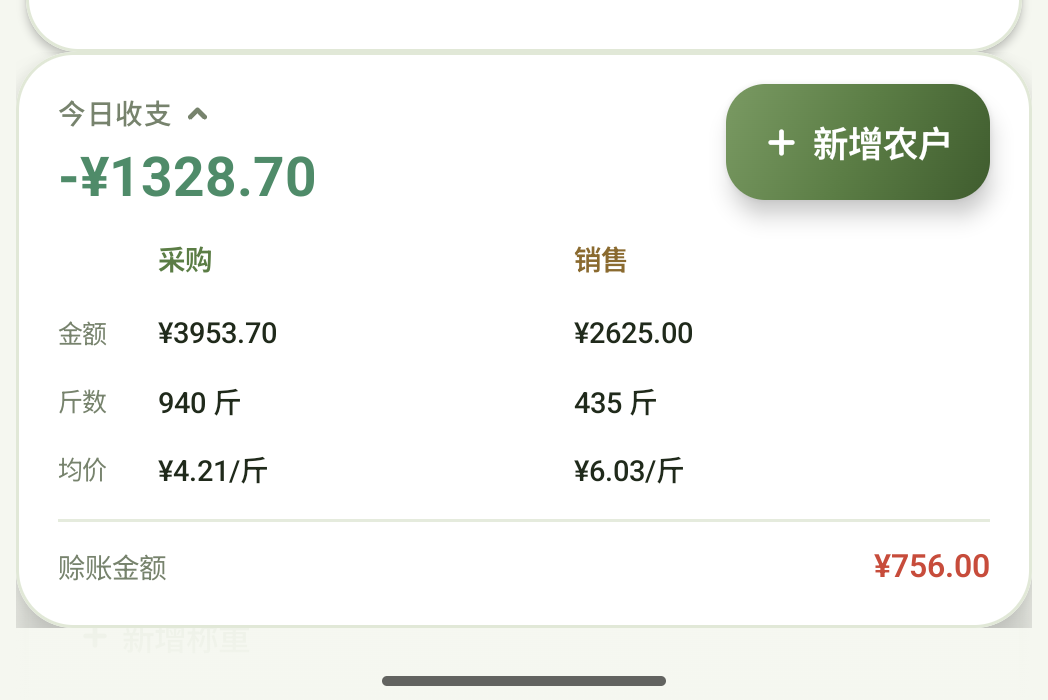
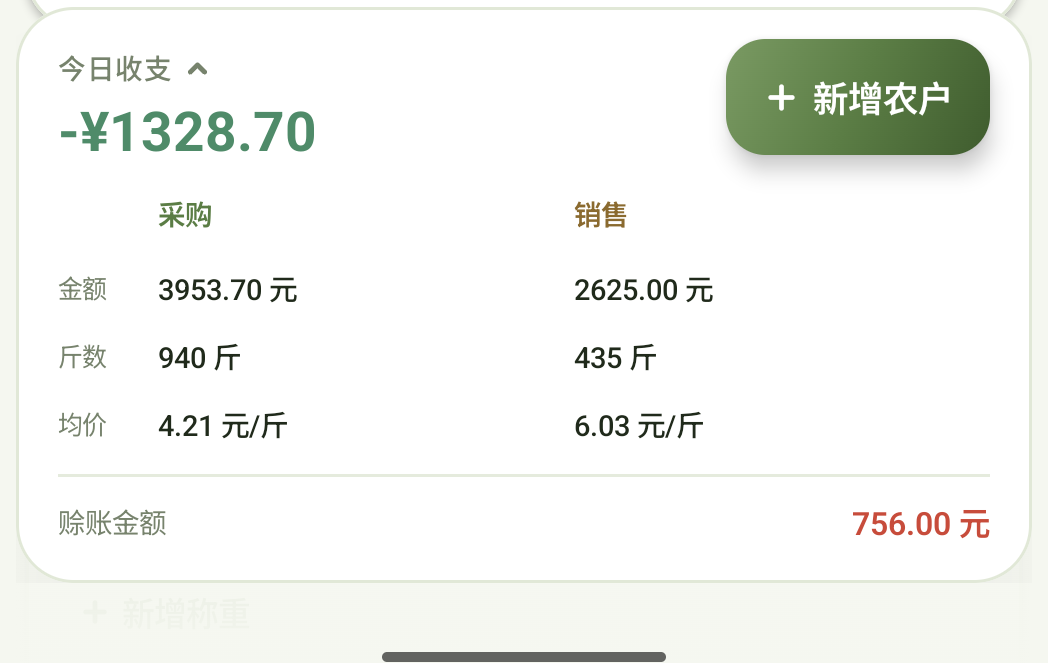
fix: refine daily card interactions, units and shadows

diff --git a/app/src/main/java/com/peanut/ledger/ui/MainScreen.kt b/app/src/main/java/com/peanut/ledger/ui/MainScreen.kt
@@ -962,7 +962,10 @@ private fun BottomDock(state: LedgerState, stats: DayStats, modifier: Modifier =
     val swipeThreshold = with(density) { 36.dp.toPx() }
     val toggleModifier = Modifier
         .pointerInput(Unit) {
-            detectTapGestures(onDoubleTap = { expanded = !expanded })
+            detectTapGestures(
+                onTap = { expanded = !expanded },
+                onDoubleTap = { expanded = !expanded }
+            )
         }
         .pointerInput(Unit) {
             var totalDrag = 0f
@@ -984,17 +987,27 @@ private fun BottomDock(state: LedgerState, stats: DayStats, modifier: Modifier =
             )
         }
 
-    Surface(
+    Box(
         modifier = modifier
             .padding(horizontal = 12.dp)
             .navigationBarsPadding()
-            .padding(bottom = 8.dp)
-            .animateContentSize(),
-        shape = RoundedCornerShape(22.dp),
-        color = CardWhite,
-        border = BorderStroke(1.dp, CardBorder),
-        shadowElevation = 10.dp
+            .padding(bottom = 16.dp)
+            .animateContentSize()
+            .shadow(
+                elevation = 14.dp,
+                shape = RoundedCornerShape(22.dp),
+                clip = false,
+                ambientColor = Color.Black.copy(alpha = 0.10f),
+                spotColor = Color.Black.copy(alpha = 0.16f)
+            )
     ) {
+        Surface(
+            modifier = Modifier.fillMaxWidth(),
+            shape = RoundedCornerShape(22.dp),
+            color = CardWhite,
+            border = BorderStroke(1.dp, CardBorder),
+            shadowElevation = 0.dp
+        ) {
         Column(
             modifier = Modifier
                 .fillMaxWidth()
@@ -1104,8 +1117,8 @@ private fun BottomDock(state: LedgerState, stats: DayStats, modifier: Modifier =
                     Spacer(Modifier.height(4.dp))
                     BottomMetricRow(
                         label = "金额",
-                        left = if (state.privacyMode) "****" else fmtMoney(stats.buy),
-                        right = if (state.privacyMode) "****" else fmtMoney(stats.sell)
+                        left = if (state.privacyMode) "**** 元" else fmtYuan(stats.buy),
+                        right = if (state.privacyMode) "**** 元" else fmtYuan(stats.sell)
                     )
                     BottomMetricRow(
                         label = "斤数",
@@ -1115,14 +1128,14 @@ private fun BottomDock(state: LedgerState, stats: DayStats, modifier: Modifier =
                     BottomMetricRow(
                         label = "均价",
                         left = when {
-                            state.privacyMode -> "****"
+                            state.privacyMode -> "**** 元/斤"
                             buyAvg == null -> "—"
-                            else -> "¥${fmtNum(buyAvg)}/斤"
+                            else -> fmtAvgYuan(buyAvg)
                         },
                         right = when {
-                            state.privacyMode -> "****"
+                            state.privacyMode -> "**** 元/斤"
                             sellAvg == null -> "—"
-                            else -> "¥${fmtNum(sellAvg)}/斤"
+                            else -> fmtAvgYuan(sellAvg)
                         }
                     )
                     Spacer(Modifier.height(6.dp))
@@ -1132,7 +1145,7 @@ private fun BottomDock(state: LedgerState, stats: DayStats, modifier: Modifier =
                         Text("赊账金额", color = Muted, fontSize = 10.5.sp)
                         Spacer(Modifier.weight(1f))
                         Text(
-                            text = if (state.privacyMode) "****" else fmtMoney(creditAmount),
+                            text = if (state.privacyMode) "**** 元" else fmtYuan(creditAmount),
                             color = if (creditAmount > 0.005 && !state.privacyMode) Red else TextSoft,
                             fontSize = 12.sp,
                             fontWeight = FontWeight.SemiBold
@@ -1141,8 +1154,15 @@ private fun BottomDock(state: LedgerState, stats: DayStats, modifier: Modifier =
                 }
             }
         }
+        }
     }
 }
+
+private fun fmtYuan(value: Double): String =
+    fmtMoney(value).removePrefix("¥") + " 元"
+
+private fun fmtAvgYuan(value: Double): String =
+    String.format(Locale.US, "%.2f 元/斤", value)
 
 @Composable
 private fun BottomMetricRow(label: String, left: String, right: String) {

diff --git a/app/src/main/java/com/peanut/ledger/ui/LedgerDatePicker.kt b/app/src/main/java/com/peanut/ledger/ui/LedgerDatePicker.kt
@@ -34,7 +34,6 @@ import androidx.compose.ui.unit.sp
 import androidx.compose.ui.window.Dialog
 import androidx.compose.ui.window.DialogProperties
 import com.peanut.ledger.ui.theme.AvatarBuy
-import com.peanut.ledger.ui.theme.CardBorder
 import com.peanut.ledger.ui.theme.CardWhite
 import com.peanut.ledger.ui.theme.Line
 import com.peanut.ledger.ui.theme.Muted
@@ -65,10 +64,15 @@ fun LedgerDatePickerDialog(
             modifier = Modifier
                 .fillMaxWidth()
                 .padding(horizontal = 26.dp)
-                .shadow(24.dp, RoundedCornerShape(24.dp)),
+                .shadow(
+                    elevation = 28.dp,
+                    shape = RoundedCornerShape(24.dp),
+                    clip = false,
+                    ambientColor = Color.Black.copy(alpha = 0.14f),
+                    spotColor = Color.Black.copy(alpha = 0.22f)
+                ),
             shape = RoundedCornerShape(24.dp),
-            color = CardWhite,
-            border = androidx.compose.foundation.BorderStroke(1.dp, CardBorder)
+            color = CardWhite
         ) {
             Column {
                 Box(

diff --git a/app/src/main/java/com/peanut/ledger/ui/StatsScreen.kt b/app/src/main/java/com/peanut/ledger/ui/StatsScreen.kt
@@ -508,7 +508,10 @@ private fun CreditCard(credit: CreditStats) {
                             text = "${index + 1}",
                             color = Primary,
                             fontSize = 10.sp,
-                            fontWeight = FontWeight.Bold
+                            lineHeight = 10.sp,
+                            fontWeight = FontWeight.Bold,
+                            textAlign = TextAlign.Center,
+                            modifier = Modifier.fillMaxWidth()
                         )
                     }
                     Spacer(Modifier.width(9.dp))

diff --git a/app/src/main/java/com/peanut/ledger/ui/SettingsScreen.kt b/app/src/main/java/com/peanut/ledger/ui/SettingsScreen.kt
@@ -100,7 +100,7 @@ fun SettingsScreen(state: LedgerState) {
                     )
                     Spacer(Modifier.height(7.dp))
                     Text(
-                        text = "数据仅保存在本机 · 花生账本 v0.1.4",
+                        text = "数据仅保存在本机 · 花生账本 v0.1.5",
                         color = Placeholder,
                         fontSize = 11.sp,
                         textAlign = TextAlign.Center

diff --git a/README.md b/README.md
@@ -10,7 +10,7 @@
 - **采购 / 销售类型与称重**：打开新增称重时自动聚焦重量并弹出数字键盘；金额默认由重量 × 单价自动计算，也可手动修改，修改后显示「已修改」及少付/多付差额；手动价格会在条目尾部以原价划线展示，合计同样划线；手动改回原价会自动恢复「自动计算」；再次调整重量或单价也会重新计算；新增称重会自动带入上次单价；重量为 0 时点击保存会直接返回，不产生记录也不弹出错误提示。如果类型下没有任何称重，会自动移除该类型。
 - **实付 / 实收调整**：支持按整元向上取整（按钮直接显示「取整到具体金额」）和恢复原价，实时显示多付/少付、多收/少收。
 - **销售结算状态**：赊账 / 已结清切换；可在设置中配置新增销售默认赊账或默认结清。
-- **展开式日结卡**：底部「今日收支」默认只显示收支和采购/销售金额；双击卡片或上拉后展开完整数据，以采购/销售两列合并展示金额、斤数、均价，并额外显示当天赊账金额。卡片展开/收起带尺寸动画，隐私模式下同步脱敏。
+- **展开式日结卡**：底部「今日收支」默认只显示收支和采购/销售金额；单击「今日收支」、双击卡片或上拉后展开完整数据，以采购/销售两列合并展示金额、斤数、均价，并额外显示当天赊账金额；金额统一显示为「x.xx 元」、均价显示为「x.xx 元/斤」，单位放在最后。卡片展开/收起带尺寸动画，隐私模式下同步脱敏。
 - **统计分析**：右上角「更多 → 统计」进入统计页。顶部可选择近 7 天、近 30 天、近 1 年或自定义起止日期，默认近 7 天，选择后概览、赊账、排行和所有图表同步生效。包含概览、赊账统计（当前周期未结清总额、欠款排行及每位收购方最长账龄）、收支趋势（采购支出 / 销售收入 / 净收支三条线）、采购销售斤数、采购销售均价，以及商品收购方往来排行。斤数与均价图各自带独立类型筛选（默认全部类型）；所有折线图支持长按显示详情，并在按住后左右移动自动切换日期，颜色采用高对比蓝 / 橙 / 紫。统计卡片内不重复展示周期，统一以顶部周期为准；隐私模式开启时会先提示关闭隐私模式。
 - **备注与重命名**：每日备注、单条记录备注使用大文本输入框；支持记录重命名和删除确认。
 - **隐私模式**：一键隐藏全部金额，销售界面的收购方显示为「收1、收2…」并在头像显示对应编号，同时隐藏多付/少付标签和采购条目的位置信息；点击新增称重或添加类型时会自动临时显示该条目并继续操作，无需先双击；其余敏感操作仍可双击或长按卡片临时显示。
@@ -30,7 +30,7 @@
 - **品牌化头部**：日期作为视觉主体，采购/销售分段控件、隐私与更多操作集中在同一条渐变区域内。
 - **统一图标系统**：`LedgerIcons.kt` 中的自绘线性图标替代 emoji，避免系统间风格不一致。
 - **卡片化账目**：20dp 大圆角、细描边、轻阴影；类型、称重和实付金额建立清晰层级。
-- **可展开日结栏**：底部悬浮显示今日收支，双击或上拉展开完整周期数据，并带尺寸过渡动画。
+- **可展开日结栏**：底部悬浮显示今日收支，单击、双击或上拉展开完整周期数据，并带尺寸过渡动画。
 - **一致性弹层**：28dp 圆角、拖拽手柄、输入聚焦态、操作行图标和安全区适配。
 - **状态反馈**：隐私金额脱敏、单户临时显示、按钮状态、Toast 与确认弹层。
 
@@ -44,7 +44,7 @@
 - 设置排序：长按每行右侧的拖动柄上下移动即可排序，记账时的类型/收购方顺序会同步变化。
 - 字体与主题：在「设置 → 显示与主题」中调整；九套主题以三列网格展示，松绿第一，立即生效。
 - 位置记录：在「设置 → 位置记录」中开关；关闭后新增农户不请求定位。
-- 展开日结卡：双击底部「今日收支」卡片或上拉展开完整数据，再次双击/下滑收起；展开后合并展示采购/销售金额、斤数、均价和当天赊账金额。
+- 展开日结卡：单击「今日收支」、双击卡片或上拉展开完整数据，再次单击/双击/下滑收起；展开后合并展示采购/销售金额、斤数、均价和当天赊账金额。
 - 销售默认结算：在「设置 → 记账偏好」中选择默认赊账或默认结清。
 
 ## 技术栈
@@ -114,7 +114,7 @@ app/build/outputs/apk/debug/app-debug.apk
 | --- | --- |
 | <img src="docs/screenshots/type-default.png" width="260" /> | <img src="docs/screenshots/settings.png" width="260" /> |
 
-| 实付调整（取整到具体金额） | 展开式日结卡（双击 / 上拉） |
+| 实付调整（取整到具体金额） | 展开式日结卡（单击 / 双击 / 上拉） |
 | --- | --- |
 | <img src="docs/screenshots/final-amount.png" width="260" /> | <img src="docs/screenshots/daily-summary.png" width="300" /> |
 

diff --git a/VERSION.md b/VERSION.md
@@ -1,9 +1,9 @@
 # 版本号约定
 
-- 当前版本：**0.1.4**
-- 版本号从 `0.1.0` 开始记录；当前为 `0.1.4`。
+- 当前版本：**0.1.5**
+- 版本号从 `0.1.0` 开始记录；当前为 `0.1.5`。
 - 未经用户明确要求，不修改前两位（major / minor），只允许修改最后一位 patch。
 - 发布时最后一位递增，例如：`0.1.0` → `0.1.1` → `0.1.2`。
 - Android `versionCode` 与语义版本分开维护，每次发布递增，仅用于安装升级。
 - 旧版本标签 `v1.1.0`–`v1.4.0` 为历史记录，新规则从 `0.1.0` 开始；旧标签保留，不删除。
-- 历史：`0.1.0` → `0.1.1`（手动价格划线、位置开关样式、底部斤数）→ `0.1.2`（统计页）→ `0.1.3`（区间统计、图内筛选与长按详情）→ `0.1.4`（区间日期样式、图内拖动详情、展开式日结卡）。
+- 历史：`0.1.0` → `0.1.1`（手动价格划线、位置开关样式、底部斤数）→ `0.1.2`（统计页）→ `0.1.3`（区间统计、图内筛选与长按详情）→ `0.1.4`（区间日期样式、图内拖动详情、展开式日结卡）→ `0.1.5`（日结卡单击交互、金额单位与阴影细节）。
